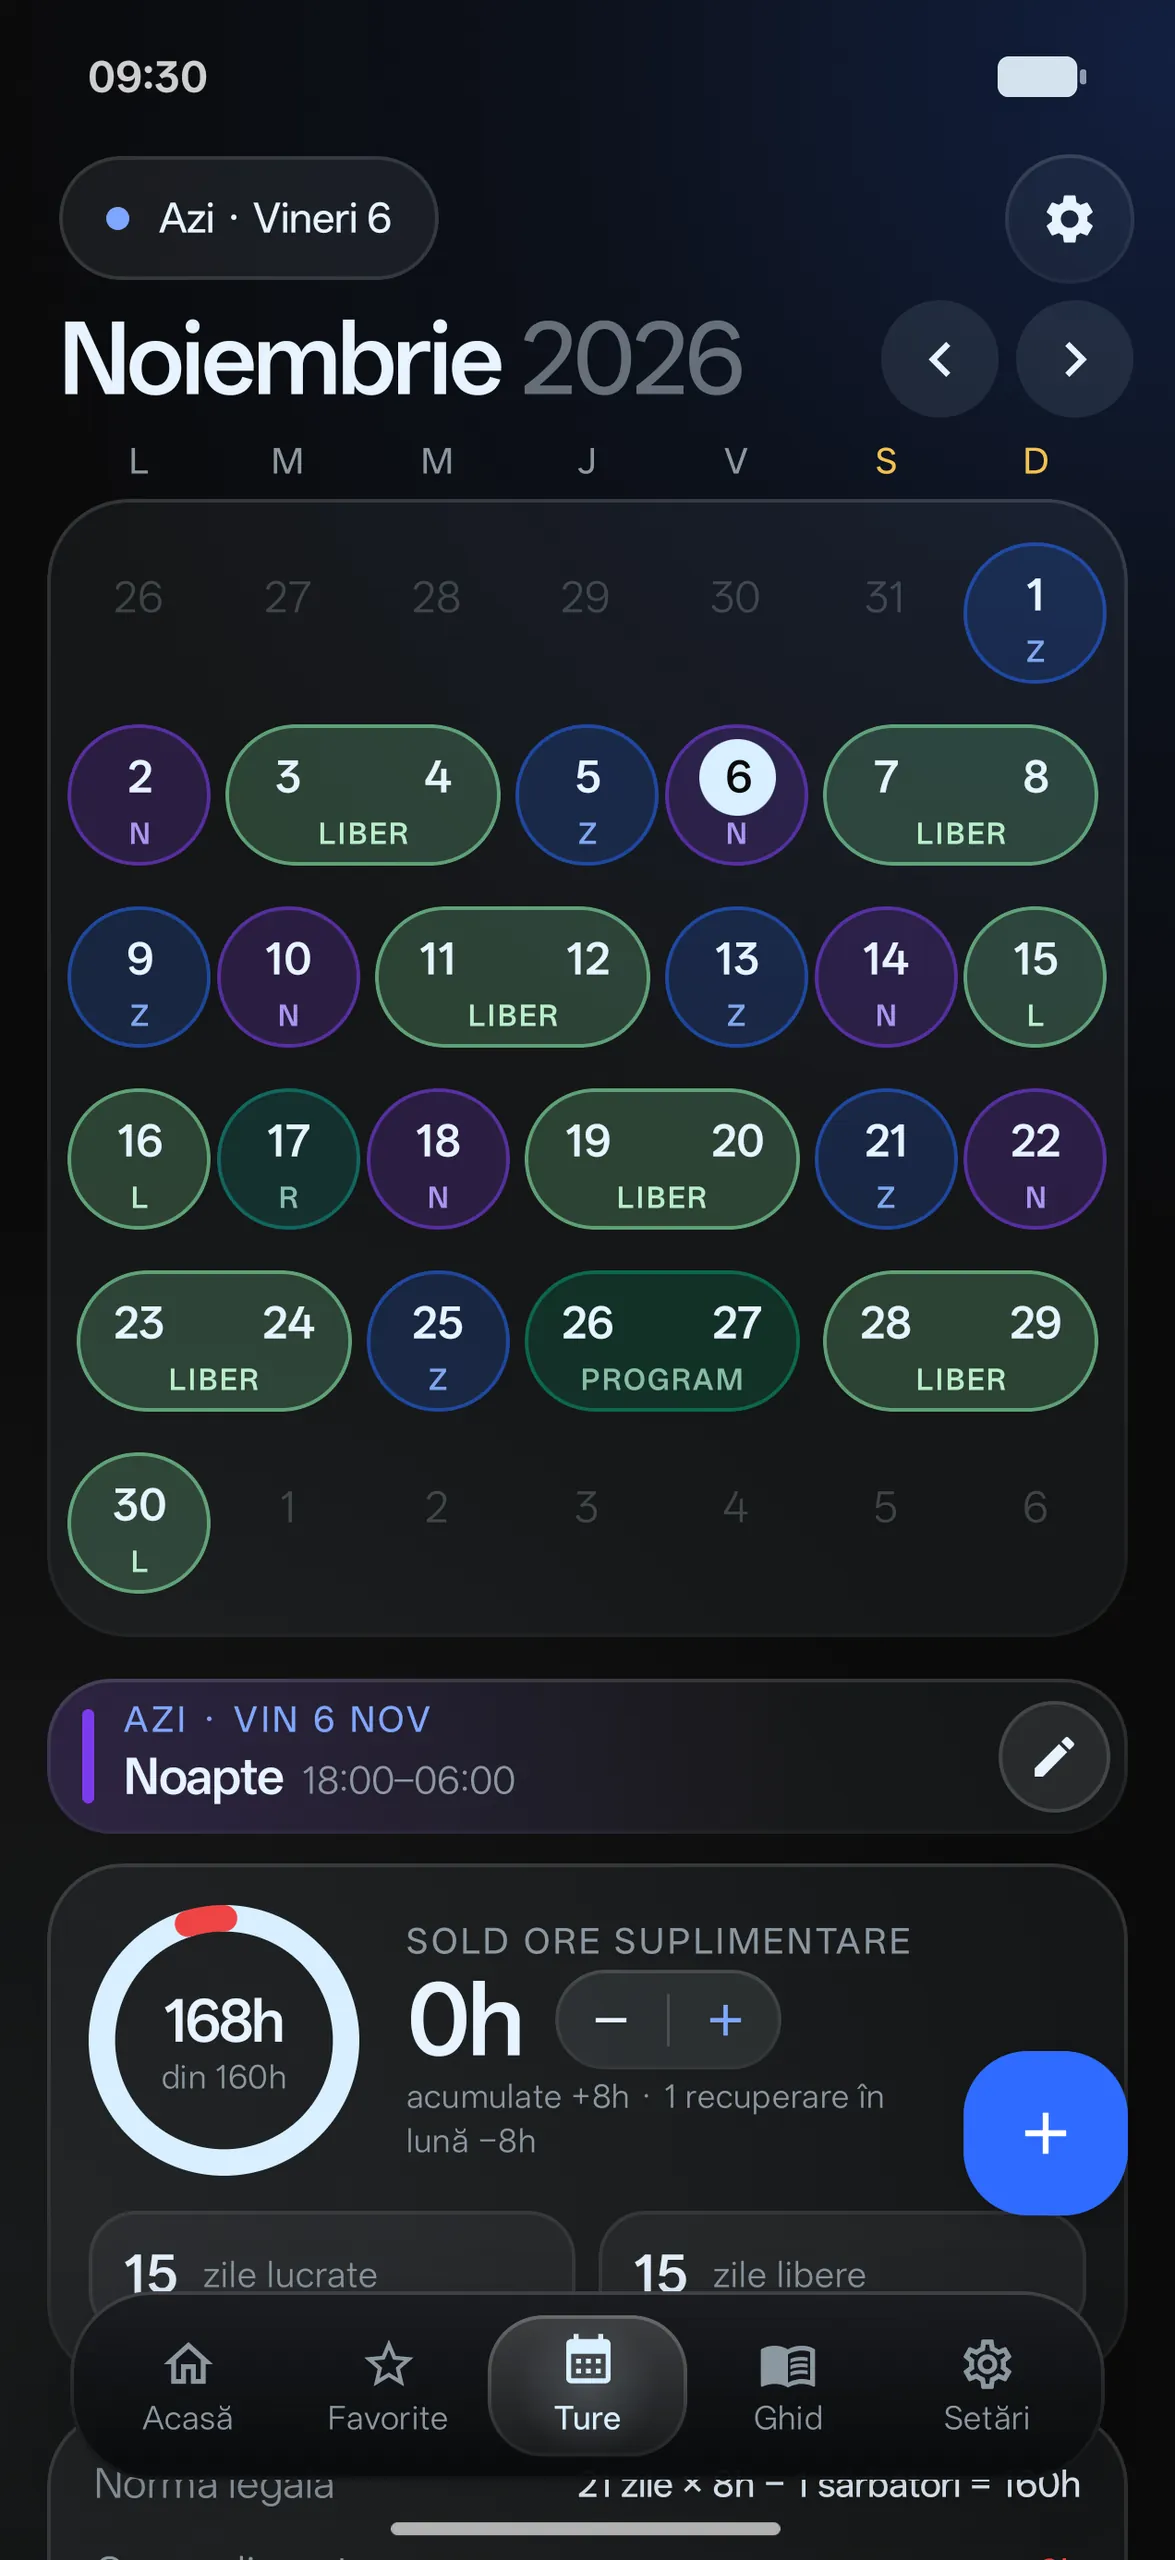
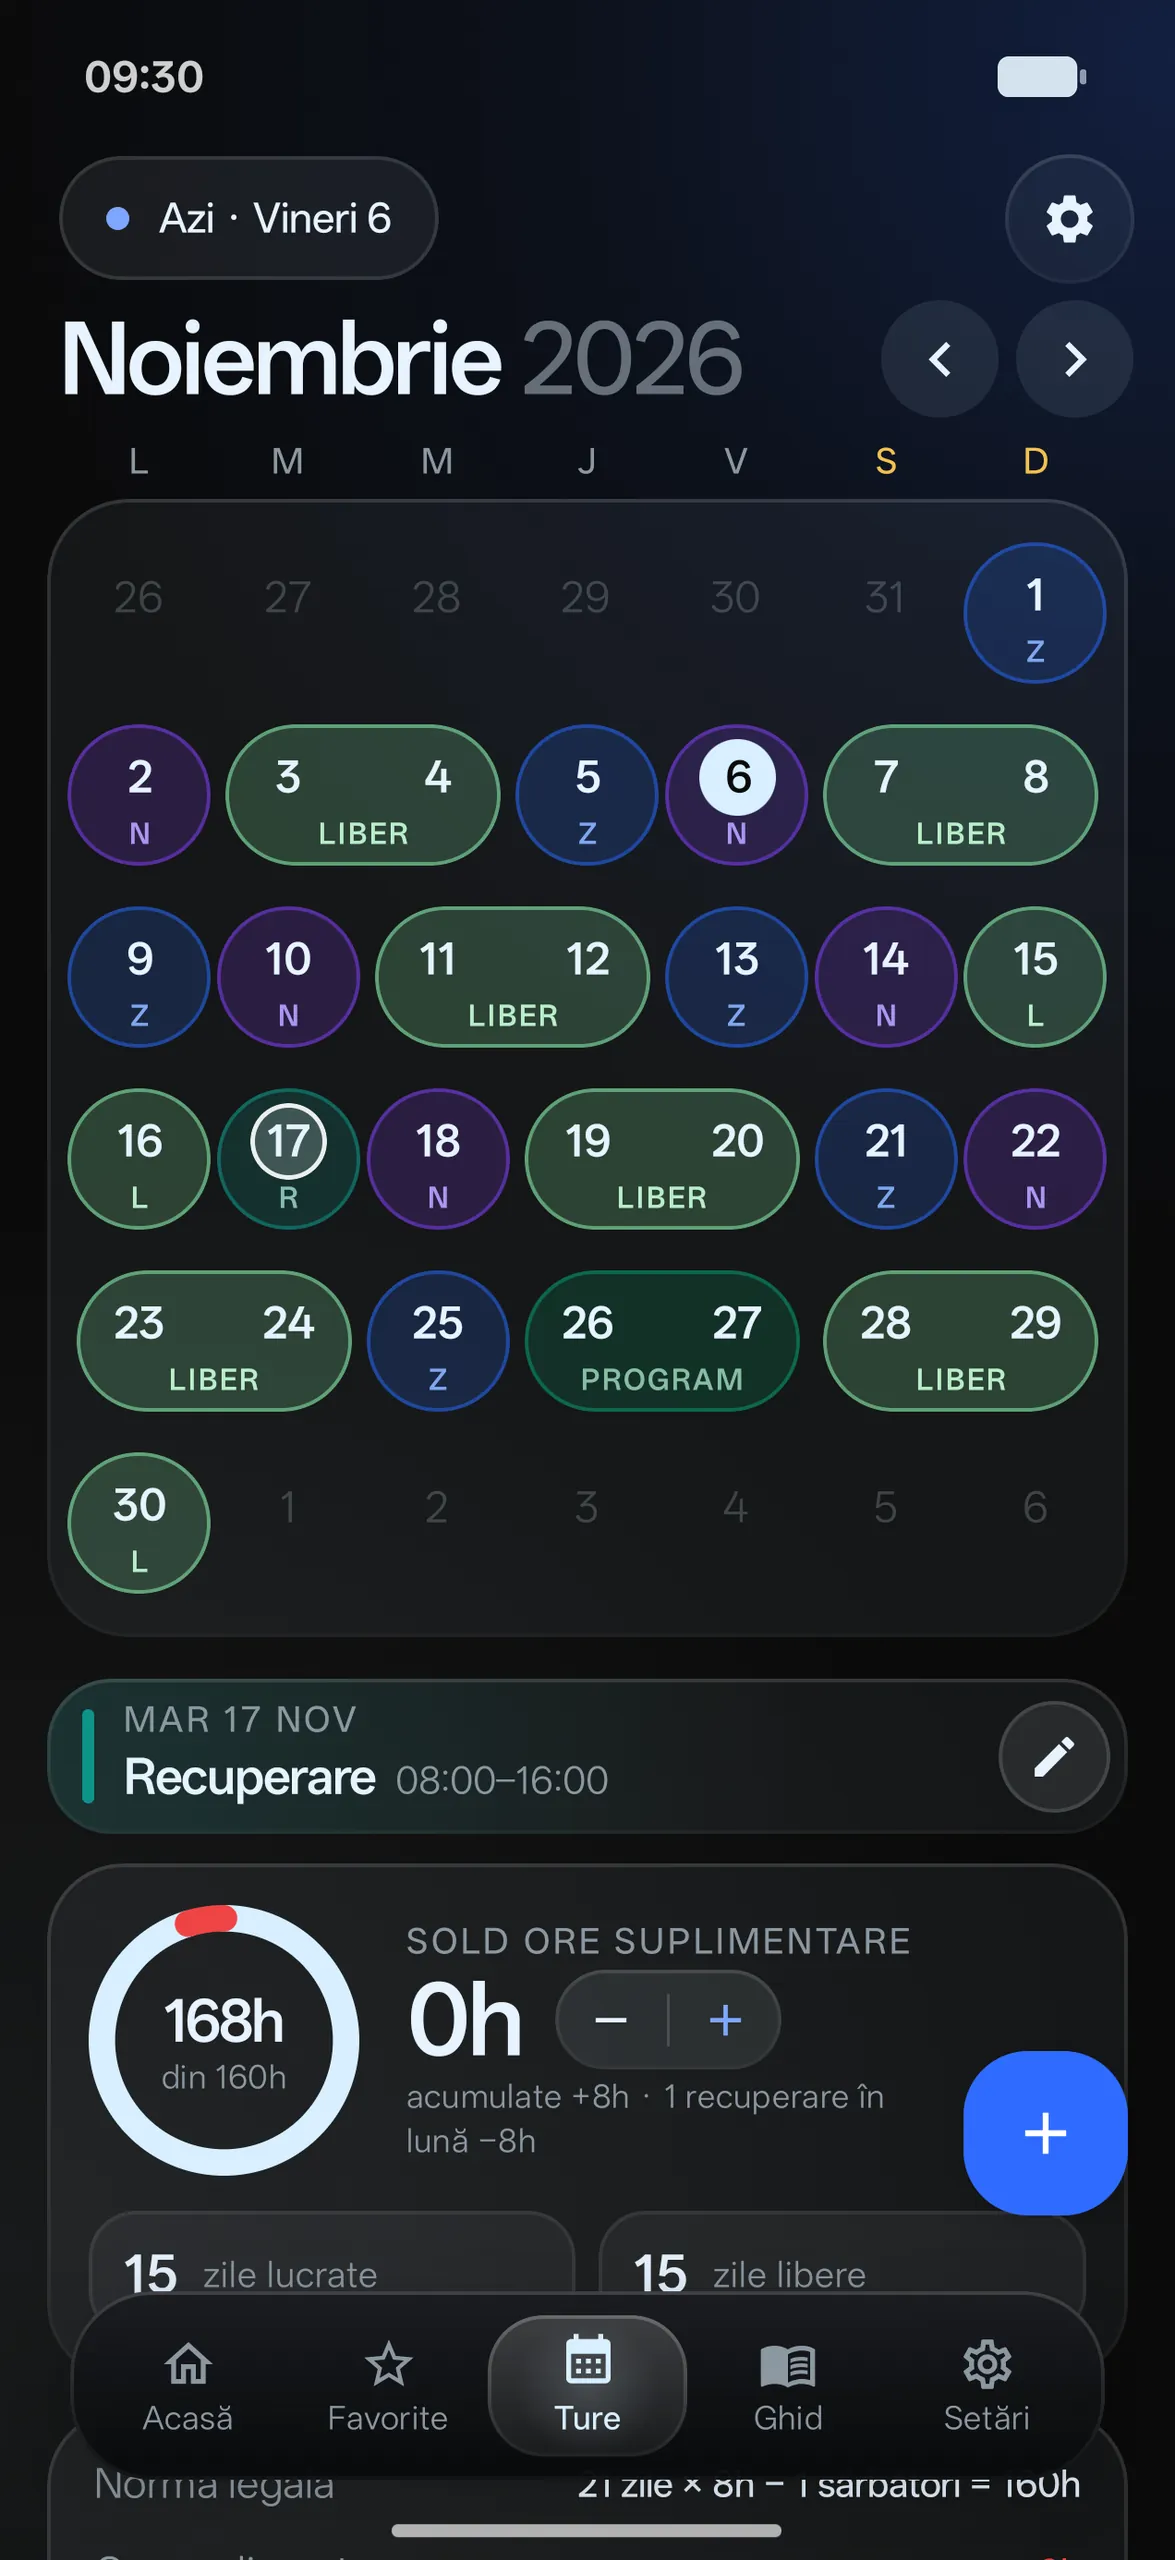
fix(shiftr): ecranul cu recuperare capturat de utilizator; comutatorul spune ce se întâmplă
- Starea cu recuperare folosește captura făcută pe telefon după modificarea din aplicație:
  marți 17 noiembrie, Recuperare 08:00–16:00, 168h din 160h, sold 0h.
- Comutatorul se numește „Tura din 17 devine recuperare de 8h”, ca să se înțeleagă de ce
  orele lucrate scad de la 172h la 168h, iar soldul ajunge la 0h, exact ca în aplicație.

diff --git a/app/page.jsx b/app/page.jsx
@@ -88,7 +88,7 @@ export default function HomePage() {
                   <div className="calc2__row"><span>Normă</span><b className="mono">160h</b></div>
                   <div className="calc2__row"><span>Lucrate</span><b className="mono" data-o="lucrate">172h</b></div>
                   <label className="calc2__row calc2__check"><span>O noapte în plus, pe 23</span><span className="calc2__toggle"><input type="checkbox" data-extra="12" /><b className="mono">+12h</b></span></label>
-                  <label className="calc2__row calc2__check"><span>Recuperare de 8h pe 17</span><span className="calc2__toggle"><input type="checkbox" data-rec="8" /><b className="mono">−8h</b></span></label>
+                  <label className="calc2__row calc2__check"><span>Tura din 17 devine recuperare de 8h</span><span className="calc2__toggle"><input type="checkbox" data-rec="8" /><b className="mono">−8h</b></span></label>
                 </div>
                 <figure className="phone chap__phone-m shiftr-stack" data-ui=""><img className="shiftr-st is-on" data-st="a" src="/assets/img/screens/app-shiftr-a-800.webp" srcSet="/assets/img/screens/app-shiftr-a-800.webp 800w, /assets/img/screens/app-shiftr-a-1175.webp 1175w" sizes="70vw" width="1175" height="2560" alt="Shiftr, noiembrie 2026: 172h lucrate din 160h normă, sold ore suplimentare +12h, acumulate +12h." loading="lazy" decoding="async" /><img className="shiftr-st" data-st="b" src="/assets/img/screens/app-shiftr-b-800.webp" srcSet="/assets/img/screens/app-shiftr-b-800.webp 800w, /assets/img/screens/app-shiftr-b-1175.webp 1175w" sizes="70vw" width="1175" height="2560" alt="Shiftr, noiembrie 2026, cu tura de zi din 17 noiembrie trecută ca recuperare de 8h: 168h din 160h, sold 0h, acumulate +8h și 1 recuperare în lună −8h." loading="lazy" decoding="async" /><img className="shiftr-st" data-st="c" src="/assets/img/screens/app-shiftr-c-800.webp" srcSet="/assets/img/screens/app-shiftr-c-800.webp 800w, /assets/img/screens/app-shiftr-c-1175.webp 1175w" sizes="70vw" width="1175" height="2560" alt="Shiftr, noiembrie 2026, cu o noapte în plus pe 23 noiembrie: 184h din 160h, sold +24h." loading="lazy" decoding="async" /><img className="shiftr-st" data-st="d" src="/assets/img/screens/app-shiftr-d-800.webp" srcSet="/assets/img/screens/app-shiftr-d-800.webp 800w, /assets/img/screens/app-shiftr-d-1175.webp 1175w" sizes="70vw" width="1175" height="2560" alt="Shiftr, noiembrie 2026, cu o noapte în plus și o recuperare de 8h: 180h din 160h, sold +12h, acumulate +20h și 1 recuperare în lună −8h." loading="lazy" decoding="async" /></figure>
               </article>

diff --git a/app/shiftr/page.jsx b/app/shiftr/page.jsx
@@ -95,7 +95,7 @@ export default function ShiftrPage() {
                 <div className="calc2__row"><span>Normă</span><b className="mono">160h</b></div>
                 <div className="calc2__row"><span>Lucrate</span><b className="mono" data-o="lucrate">172h</b></div>
                 <label className="calc2__row calc2__check"><span>O noapte în plus, pe 23</span><span className="calc2__toggle"><input type="checkbox" data-extra="12" /><b className="mono">+12h</b></span></label>
-                <label className="calc2__row calc2__check"><span>Recuperare de 8h pe 17</span><span className="calc2__toggle"><input type="checkbox" data-rec="8" /><b className="mono">−8h</b></span></label>
+                <label className="calc2__row calc2__check"><span>Tura din 17 devine recuperare de 8h</span><span className="calc2__toggle"><input type="checkbox" data-rec="8" /><b className="mono">−8h</b></span></label>
               </div>
               <div className="live__phone">
                 <span className="hero__halo stage__halo" aria-hidden="true"></span>
